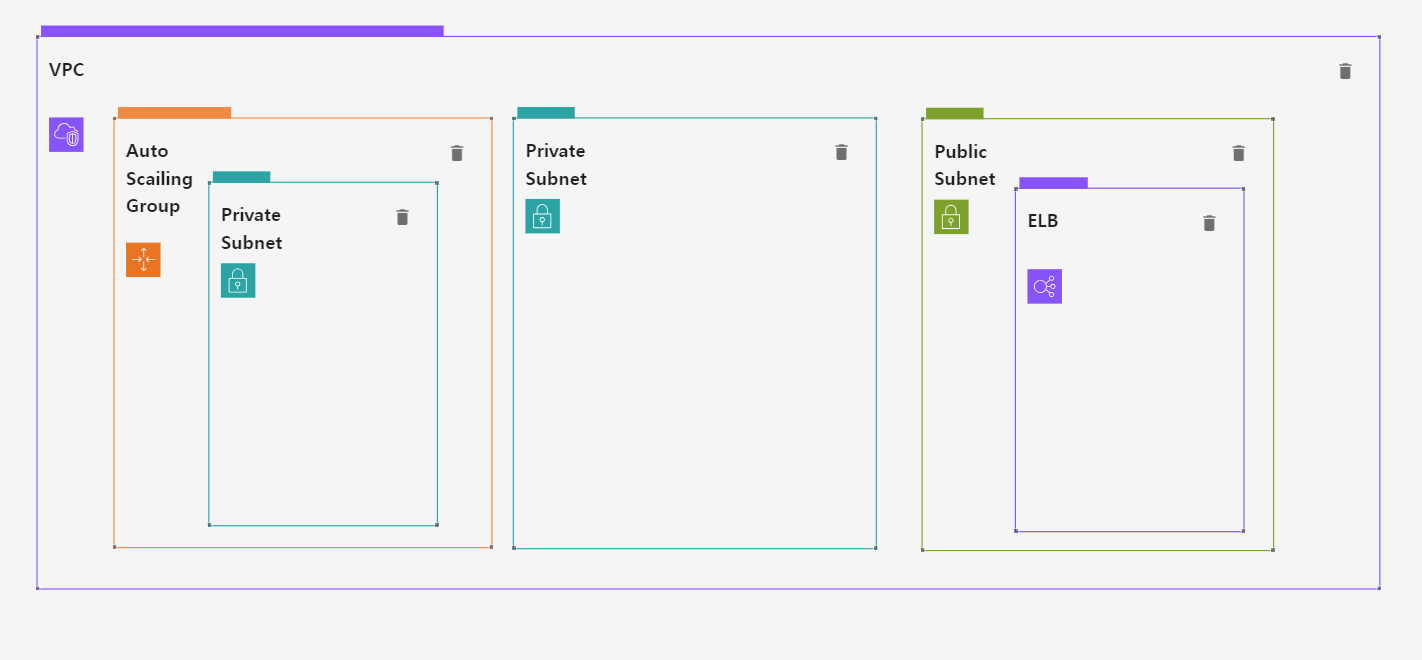
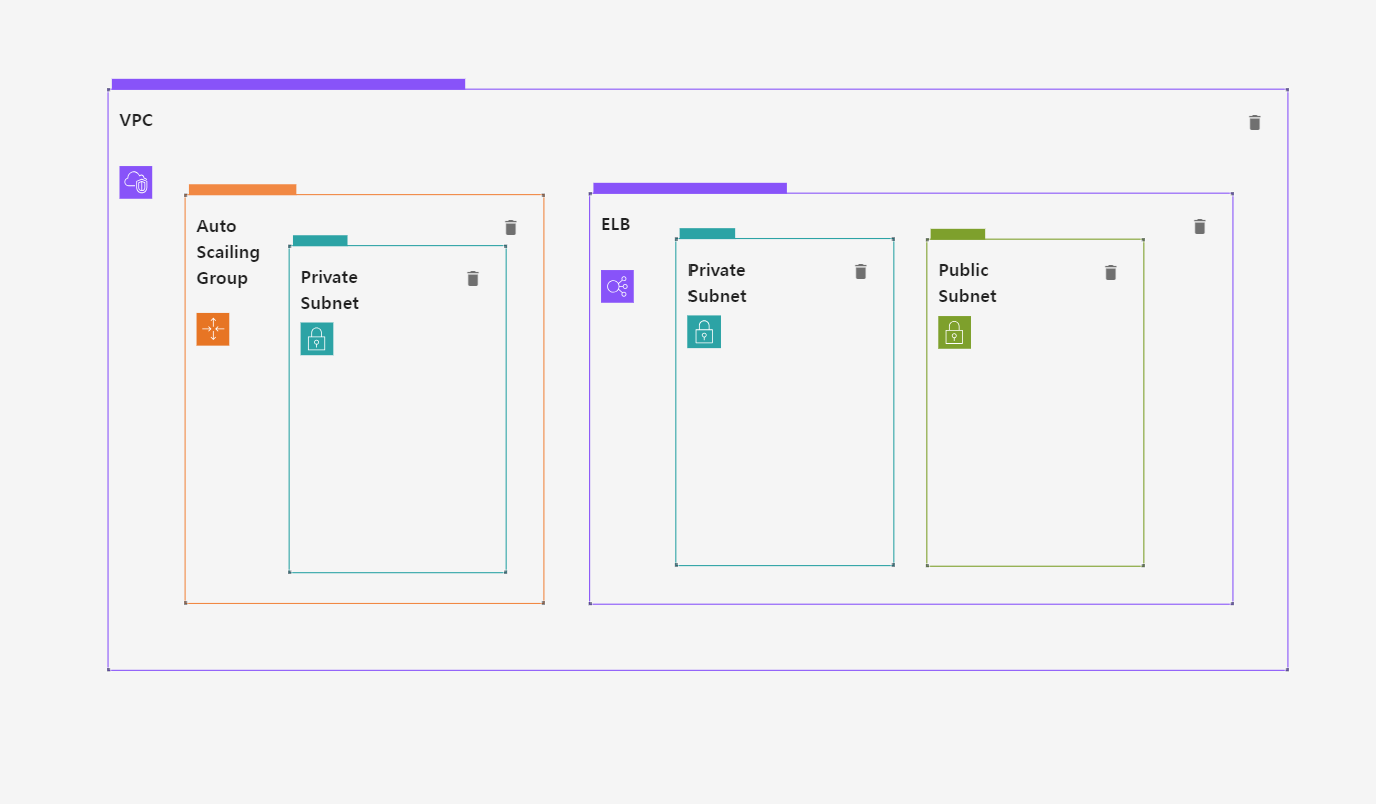
feat: update ASG blueprint

diff --git a/src/components/dashboard/BluePrintData.js b/src/components/dashboard/BluePrintData.js
@@ -3,12 +3,12 @@ export const blueprintData = {
         {
             type: 'vpc',
             dimensions: {
-                width: 1170,
-                height: 482,
+                width: 1090,
+                height: 434,
             },
             handleBounds: {},
             computedPosition: {
-                x: 0.31950791077292706,
+                x: -60.11212657236615,
                 y: 41.6640625,
                 z: 0,
             },
@@ -27,16 +27,18 @@ export const blueprintData = {
             events: {},
             id: '0',
             position: {
-                x: 0.31950791077292706,
+                x: -60.11212657236615,
                 y: 41.6640625,
             },
             label: 'vpc node',
             style: {
-                width: '1170.228822720381px',
-                height: '482px',
+                width: '1090px',
+                height: '434px',
             },
+            isParent: true,
         },
         {
+            parentNode: '3',
             type: 'privatesubnet',
             dimensions: {
                 width: 200,
@@ -44,21 +46,20 @@ export const blueprintData = {
             },
             handleBounds: {},
             computedPosition: {
-                x: 149.88787342763385,
-                y: 168.60615664309148,
+                x: 95.88787342763385,
+                y: 122.60615664309148,
                 z: 2,
             },
             selected: false,
             dragging: false,
             resizing: false,
             initialized: true,
-            parentNode: '3',
             data: {},
             events: {},
             id: '1',
             position: {
-                x: 82.56836551686092,
-                y: 55.94209414309148,
+                x: 88,
+                y: 47.94209414309148,
             },
             label: 'privatesubnet node',
             expandParent: true,
@@ -68,22 +69,22 @@ export const blueprintData = {
             },
         },
         {
+            parentNode: '0',
             type: 'asg',
             dimensions: {
-                width: 330,
-                height: 375,
+                width: 315,
+                height: 371,
             },
             handleBounds: {},
             computedPosition: {
-                x: 67.31950791077293,
-                y: 112.6640625,
+                x: 7.887873427633849,
+                y: 74.6640625,
                 z: 1,
             },
             selected: false,
             dragging: false,
             resizing: false,
             initialized: true,
-            parentNode: '0',
             data: {
                 min_size: 1,
                 max_size: 3,
@@ -95,104 +96,110 @@ export const blueprintData = {
             events: {},
             id: '3',
             position: {
-                x: 67,
-                y: 71,
+                x: 68,
+                y: 33,
             },
             label: 'asg node',
             expandParent: true,
             style: {
-                width: '330px',
-                height: '375px',
+                width: '315px',
+                height: '371px',
             },
+            isParent: true,
         },
         {
+            parentNode: '6',
             type: 'privatesubnet',
-            dimensions: {
-                width: 317,
-                height: 376,
-            },
-            handleBounds: {},
-            computedPosition: {
-                x: 414.9831281936739,
-                y: 112.59341219531507,
-                z: 1,
-            },
-            selected: false,
-            dragging: false,
-            resizing: false,
-            initialized: true,
-            parentNode: '6',
-            data: {},
-            events: {},
-            id: '4',
-            position: {
-                x: 414.663620282901,
-                y: 70.92934969531507,
-            },
-            label: 'privatesubnet node',
-            expandParent: true,
-            style: {
-                width: '317px',
-                height: '376px',
-            },
-        },
-        {
-            type: 'publicsubnet',
-            dimensions: {
-                width: 307,
-                height: 377,
-            },
-            handleBounds: {},
-            computedPosition: {
-                x: 770.7803164309155,
-                y: 113.2201257861833,
-                z: 1,
-            },
-            selected: false,
-            dragging: false,
-            resizing: false,
-            initialized: true,
-            parentNode: '6',
-            data: {},
-            events: {},
-            id: '5',
-            position: {
-                x: 770.4608085201426,
-                y: 71.5560632861833,
-            },
-            label: 'publicsubnet node',
-            expandParent: true,
-            style: {
-                width: '307px',
-                height: '377px',
-            },
-        },
-        {
-            type: 'alb',
             dimensions: {
                 width: 200,
                 height: 300,
             },
             handleBounds: {},
             computedPosition: {
-                x: 852.0460458433295,
-                y: 173.7761890723665,
+                x: 417.8172231229487,
+                y: 116.14947548149826,
                 z: 2,
             },
             selected: false,
             dragging: false,
             resizing: false,
             initialized: true,
+            data: {},
+            events: {},
+            id: '4',
+            position: {
+                x: 72.66362028290087,
+                y: 42.92934969531507,
+            },
+            label: 'privatesubnet node',
+            expandParent: true,
+            style: {
+                width: '132px',
+                height: '246px',
+            },
+        },
+        {
+            parentNode: '6',
+            type: 'publicsubnet',
+            dimensions: {
+                width: 200,
+                height: 300,
+            },
+            handleBounds: {},
+            computedPosition: {
+                x: 653.6144113601904,
+                y: 116.77618907236649,
+                z: 1001,
+            },
+            selected: true,
+            dragging: false,
+            resizing: false,
+            initialized: true,
+            data: {},
+            events: {},
+            id: '5',
+            position: {
+                x: 308.46080852014256,
+                y: 43.5560632861833,
+            },
+            label: 'publicsubnet node',
+            expandParent: true,
+            style: {
+                width: '121px',
+                height: '292px',
+            },
+        },
+        {
             parentNode: '0',
+            type: 'alb',
+            dimensions: {
+                width: 593,
+                height: 373,
+            },
+            handleBounds: {},
+            computedPosition: {
+                x: 345.1536028400478,
+                y: 73.22012578618319,
+                z: 1,
+            },
+            selected: false,
+            dragging: false,
+            resizing: false,
+            initialized: true,
             data: {},
             events: {},
             id: '6',
             position: {
-                x: 500.26572941241398,
-                y: 60.55606328618319,
+                x: 405.265729412414,
+                y: 31.55606328618319,
             },
             label: 'alb node',
             expandParent: true,
+            isParent: true,
+            style: {
+                width: '593px',
+                height: '373px',
+            },
         },
     ],
 };

diff --git a/src/components/dashboard/BluePrint.vue b/src/components/dashboard/BluePrint.vue
@@ -42,19 +42,15 @@ const onClick = () => {
                                     ></v-img>
                                 </v-row>
 
-                                <v-row>
+                                <v-row class="text-header">
                                     <div>
-                                        Build Auto Scailing Group for scale
-                                        in-out.
+                                        Auto Scailing Group for scale in-out.
                                     </div>
                                 </v-row>
                                 <v-row>
                                     <div>
-                                        Resources <br />
-                                        <ul>
-                                            <li>Auto Scailing Group</li>
-                                            <li>Elastic Load Balancer</li>
-                                        </ul>
+                                        Build Auto Scailing Group using ELB and
+                                        ASG on AWS.
                                     </div>
                                 </v-row>
                             </v-container>
@@ -74,7 +70,10 @@ const onClick = () => {
 
 <style>
 .text-header {
-    font-weight: normal;
+    padding-top: 10px;
+    font-weight: bolder;
+}
+.text-description {
 }
 .dialog-form {
     min-width: 400px;
